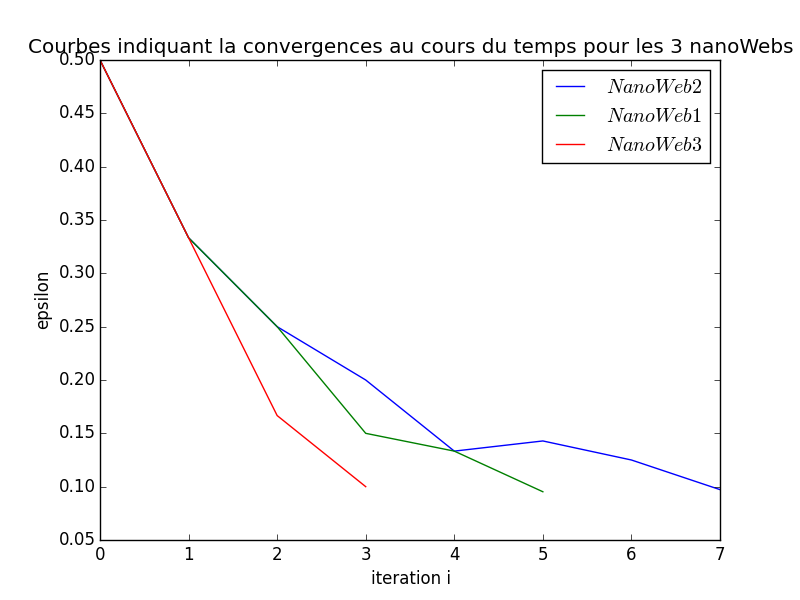
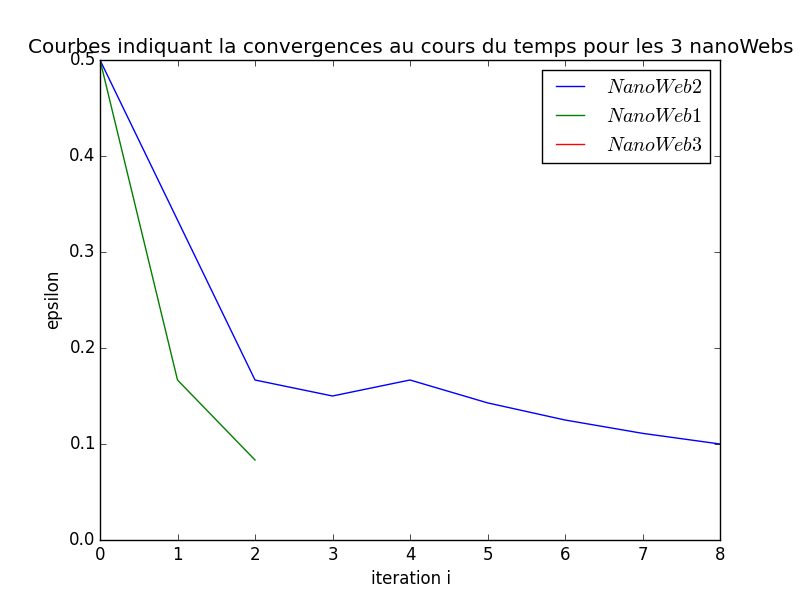
merge

diff --git a/Chaine_Markov/main.py b/Chaine_Markov/main.py
@@ -22,9 +22,9 @@ alice = Internaute(nanoweb2)
 camille = Internaute(nanoweb3)
 
  # bob es t dans l e noeud 3
-bob.goTo(0)
-alice.goTo(0)
-camille.goTo(0)
+bob.goTo(3)
+alice.goTo(3)
+camille.goTo(3)
 
 # bob se ba l lade 10000 f o i s
 # ou jusque esp i lon <0.01
@@ -32,19 +32,19 @@ bob.walk(1000,0.1)
 alice.walk(1000,0.1)
 camille.walk(1000,0.1)
 
-#plt.xlabel(u'iteration i')
-#plt.ylabel(u'epsilon')
-#plt.title(u"Courbes indiquant la convergences au cours du temps pour les 3 nanoWebs")
-#x1=np.arange(len(alice.liste_epsilon))
-#x2=np.arange(len(bob.liste_epsilon))
-#x3=np.arange(len(camille.liste_epsilon))
-#p1=plt.plot(x1,alice.liste_epsilon,label=ur"$NanoWeb2$")
-#p2=plt.plot(x2,bob.liste_epsilon,label=ur"$NanoWeb1$")
-#p3=plt.plot(x3,camille.liste_epsilon,label=ur"$NanoWeb3$")
-#plt.legend()
+plt.xlabel(u'iteration i')
+plt.ylabel(u'epsilon')
+plt.title(u"Courbes indiquant la convergences au cours du temps pour les 3 nanoWebs")
+x1=np.arange(len(alice.liste_epsilon))
+x2=np.arange(len(bob.liste_epsilon))
+x3=np.arange(len(camille.liste_epsilon))
+p1=plt.plot(x1,alice.liste_epsilon,label=ur"$NanoWeb2$")
+p2=plt.plot(x2,bob.liste_epsilon,label=ur"$NanoWeb1$")
+p3=plt.plot(x3,camille.liste_epsilon,label=ur"$NanoWeb3$")
+plt.legend()
 #plt.savefig("graphe.png")
-#
-#plt.show()
+
+plt.show()
 
 # bob conserve les valeurs de epsilon
 # toutes l e s 100 i t e r a t i on s

diff --git a/Chaine_Markov/Simulation.py b/Chaine_Markov/Simulation.py
@@ -77,18 +77,18 @@ pi0 = [1/3.,0,0,0,0,0,0,0,1/3.,1/3.]
 sim.simul(1000,0.001,pi0)
 #print sim.liste_epsilon
 
-plt.xlabel(u'iteration i')
-plt.ylabel(u'epsilon')
-plt.title(u"Courbes courbes d’epsilon pour les 3 nanoWebs")
-x3=np.arange(len(sim3.liste_epsilon))
-x2=np.arange(len(sim2.liste_epsilon))
-x1=np.arange(len(sim.liste_epsilon))
-p1=plt.plot(x1,sim.liste_epsilon,label=ur"$NanoWeb2$")
-p2=plt.plot(x2,sim2.liste_epsilon,label=ur"$NanoWeb1$")
-p3=plt.plot(x3,sim3.liste_epsilon,label=ur"$NanoWeb3$")
-plt.legend()
-
-plt.show()
+#plt.xlabel(u'iteration i')
+#plt.ylabel(u'epsilon')
+#plt.title(u"Courbes courbes d’epsilon pour les 3 nanoWebs")
+#x3=np.arange(len(sim3.liste_epsilon))
+#x2=np.arange(len(sim2.liste_epsilon))
+#x1=np.arange(len(sim.liste_epsilon))
+#p1=plt.plot(x1,sim.liste_epsilon,label=ur"$NanoWeb2$")
+#p2=plt.plot(x2,sim2.liste_epsilon,label=ur"$NanoWeb1$")
+#p3=plt.plot(x3,sim3.liste_epsilon,label=ur"$NanoWeb3$")
+#plt.legend()
+#
+#plt.show()
             
 
         
